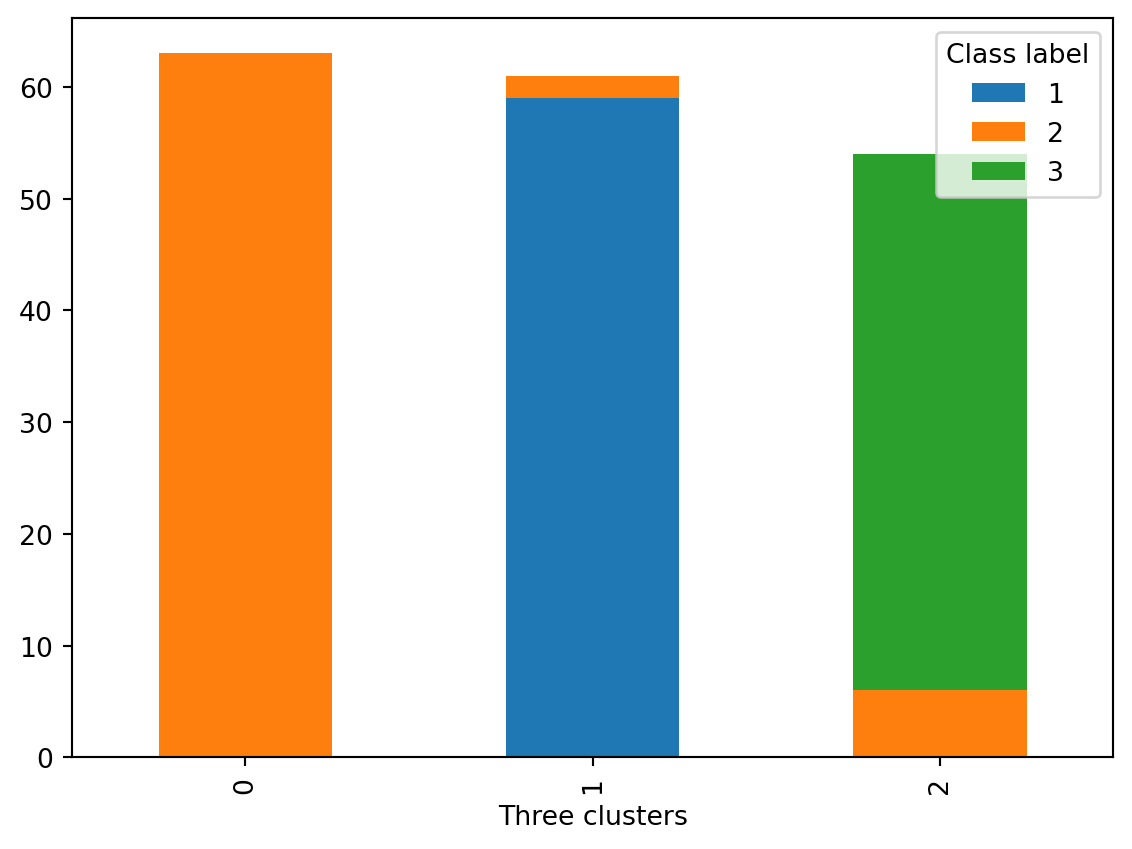
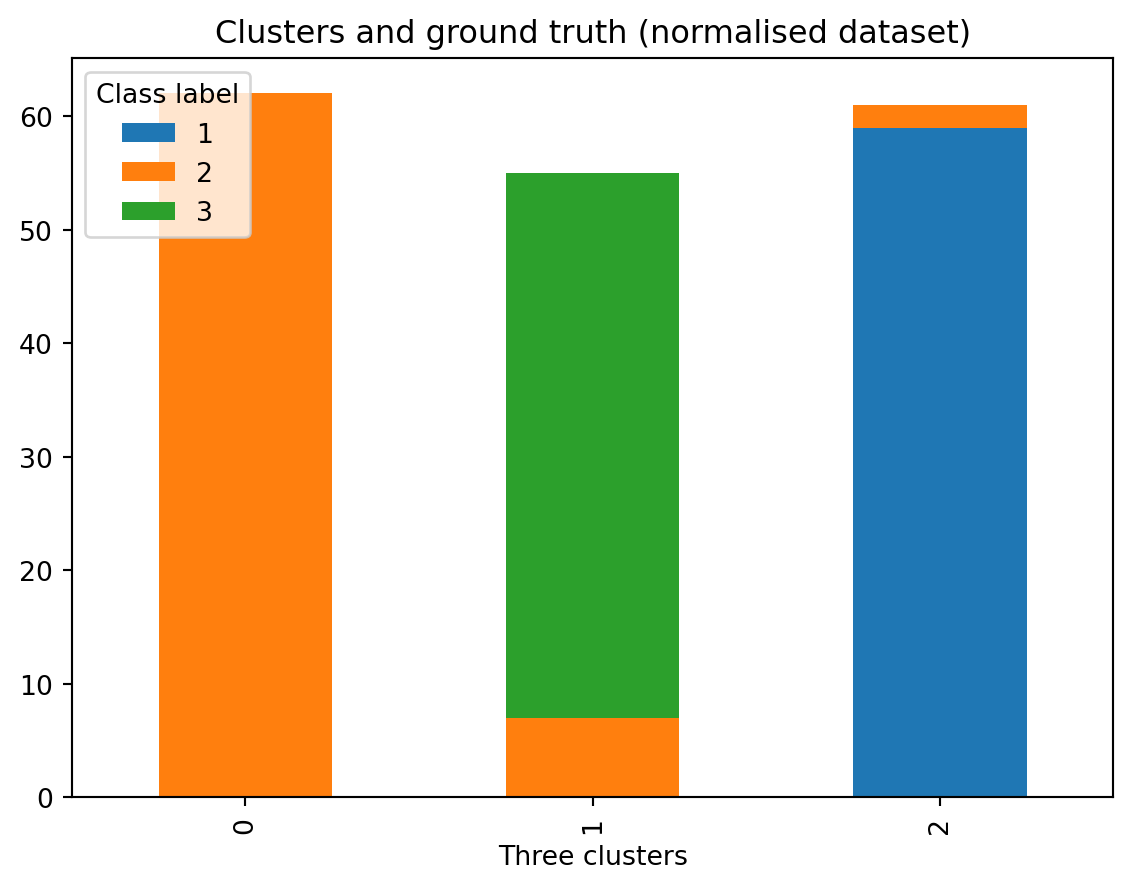
Built site for gh-pages

diff --git a/content/labs/Lab_5/IM939_Lab_5_2.html b/content/labs/Lab_5/IM939_Lab_5_2.html
@@ -1338,7 +1338,7 @@ Name: count, dtype: int64</code></pre>
 <td>1.04</td>
 <td>3.92</td>
 <td>1065</td>
-<td>1</td>
+<td>0</td>
 </tr>
 <tr class="even">
 <td data-quarto-table-cell-role="th">1</td>
@@ -1356,7 +1356,7 @@ Name: count, dtype: int64</code></pre>
 <td>1.05</td>
 <td>3.40</td>
 <td>1050</td>
-<td>1</td>
+<td>0</td>
 </tr>
 <tr class="odd">
 <td data-quarto-table-cell-role="th">2</td>
@@ -1374,7 +1374,7 @@ Name: count, dtype: int64</code></pre>
 <td>1.03</td>
 <td>3.17</td>
 <td>1185</td>
-<td>1</td>
+<td>0</td>
 </tr>
 <tr class="even">
 <td data-quarto-table-cell-role="th">3</td>
@@ -1392,7 +1392,7 @@ Name: count, dtype: int64</code></pre>
 <td>0.86</td>
 <td>3.45</td>
 <td>1480</td>
-<td>1</td>
+<td>0</td>
 </tr>
 <tr class="odd">
 <td data-quarto-table-cell-role="th">4</td>
@@ -1410,7 +1410,7 @@ Name: count, dtype: int64</code></pre>
 <td>1.04</td>
 <td>2.93</td>
 <td>735</td>
-<td>2</td>
+<td>1</td>
 </tr>
 <tr class="even">
 <td data-quarto-table-cell-role="th">...</td>
@@ -1446,7 +1446,7 @@ Name: count, dtype: int64</code></pre>
 <td>0.64</td>
 <td>1.74</td>
 <td>740</td>
-<td>2</td>
+<td>1</td>
 </tr>
 <tr class="even">
 <td data-quarto-table-cell-role="th">174</td>
@@ -1464,7 +1464,7 @@ Name: count, dtype: int64</code></pre>
 <td>0.70</td>
 <td>1.56</td>
 <td>750</td>
-<td>2</td>
+<td>1</td>
 </tr>
 <tr class="odd">
 <td data-quarto-table-cell-role="th">175</td>
@@ -1482,7 +1482,7 @@ Name: count, dtype: int64</code></pre>
 <td>0.59</td>
 <td>1.56</td>
 <td>835</td>
-<td>2</td>
+<td>1</td>
 </tr>
 <tr class="even">
 <td data-quarto-table-cell-role="th">176</td>
@@ -1500,7 +1500,7 @@ Name: count, dtype: int64</code></pre>
 <td>0.60</td>
 <td>1.62</td>
 <td>840</td>
-<td>2</td>
+<td>1</td>
 </tr>
 <tr class="odd">
 <td data-quarto-table-cell-role="th">177</td>
@@ -1518,7 +1518,7 @@ Name: count, dtype: int64</code></pre>
 <td>0.61</td>
 <td>1.60</td>
 <td>560</td>
-<td>0</td>
+<td>2</td>
 </tr>
 </tbody>
 </table>
@@ -1578,7 +1578,7 @@ Name: count, dtype: int64</code></pre>
 <td>0.455285</td>
 <td>0.970696</td>
 <td>0.561341</td>
-<td>1</td>
+<td>2</td>
 </tr>
 <tr class="even">
 <td data-quarto-table-cell-role="th">1</td>
@@ -1596,7 +1596,7 @@ Name: count, dtype: int64</code></pre>
 <td>0.463415</td>
 <td>0.780220</td>
 <td>0.550642</td>
-<td>1</td>
+<td>2</td>
 </tr>
 <tr class="odd">
 <td data-quarto-table-cell-role="th">2</td>
@@ -1614,7 +1614,7 @@ Name: count, dtype: int64</code></pre>
 <td>0.447154</td>
 <td>0.695971</td>
 <td>0.646933</td>
-<td>1</td>
+<td>2</td>
 </tr>
 <tr class="even">
 <td data-quarto-table-cell-role="th">3</td>
@@ -1632,7 +1632,7 @@ Name: count, dtype: int64</code></pre>
 <td>0.308943</td>
 <td>0.798535</td>
 <td>0.857347</td>
-<td>1</td>
+<td>2</td>
 </tr>
 <tr class="odd">
 <td data-quarto-table-cell-role="th">4</td>
@@ -1650,7 +1650,7 @@ Name: count, dtype: int64</code></pre>
 <td>0.455285</td>
 <td>0.608059</td>
 <td>0.325963</td>
-<td>1</td>
+<td>2</td>
 </tr>
 <tr class="even">
 <td data-quarto-table-cell-role="th">...</td>
@@ -1686,7 +1686,7 @@ Name: count, dtype: int64</code></pre>
 <td>0.130081</td>
 <td>0.172161</td>
 <td>0.329529</td>
-<td>2</td>
+<td>1</td>
 </tr>
 <tr class="even">
 <td data-quarto-table-cell-role="th">174</td>
@@ -1704,7 +1704,7 @@ Name: count, dtype: int64</code></pre>
 <td>0.178862</td>
 <td>0.106227</td>
 <td>0.336662</td>
-<td>2</td>
+<td>1</td>
 </tr>
 <tr class="odd">
 <td data-quarto-table-cell-role="th">175</td>
@@ -1722,7 +1722,7 @@ Name: count, dtype: int64</code></pre>
 <td>0.089431</td>
 <td>0.106227</td>
 <td>0.397290</td>
-<td>2</td>
+<td>1</td>
 </tr>
 <tr class="even">
 <td data-quarto-table-cell-role="th">176</td>
@@ -1740,7 +1740,7 @@ Name: count, dtype: int64</code></pre>
 <td>0.097561</td>
 <td>0.128205</td>
 <td>0.400856</td>
-<td>2</td>
+<td>1</td>
 </tr>
 <tr class="odd">
 <td data-quarto-table-cell-role="th">177</td>
@@ -1758,7 +1758,7 @@ Name: count, dtype: int64</code></pre>
 <td>0.105691</td>
 <td>0.120879</td>
 <td>0.201141</td>
-<td>2</td>
+<td>1</td>
 </tr>
 </tbody>
 </table>
@@ -1797,21 +1797,21 @@ Name: count, dtype: int64</code></pre>
 <tbody>
 <tr class="odd">
 <td data-quarto-table-cell-role="th">0</td>
-<td>0</td>
-<td>50</td>
-<td>19</td>
-</tr>
-<tr class="even">
-<td data-quarto-table-cell-role="th">1</td>
 <td>46</td>
 <td>1</td>
 <td>0</td>
 </tr>
-<tr class="odd">
-<td data-quarto-table-cell-role="th">2</td>
+<tr class="even">
+<td data-quarto-table-cell-role="th">1</td>
 <td>13</td>
 <td>20</td>
 <td>29</td>
+</tr>
+<tr class="odd">
+<td data-quarto-table-cell-role="th">2</td>
+<td>0</td>
+<td>50</td>
+<td>19</td>
 </tr>
 </tbody>
 </table>
@@ -1819,6 +1819,7 @@ Name: count, dtype: int64</code></pre>
 </div>
 </div>
 </div>
+<p>And now, we will repeat the same with the normalised dataframe:</p>
 <div class="cell" data-execution_count="16">
 <div class="sourceCode cell-code" id="cb18"><pre class="sourceCode python code-with-copy"><code class="sourceCode python"><span id="cb18-1"><a href="#cb18-1" aria-hidden="true" tabindex="-1"></a>ct_norm <span class="op">=</span> pd.crosstab(df_norm[<span class="st">'Three clusters'</span>], df_norm[<span class="st">'Class label'</span>])</span>
 <span id="cb18-2"><a href="#cb18-2" aria-hidden="true" tabindex="-1"></a>ct_norm</span></code><button title="Copy to Clipboard" class="code-copy-button"><i class="bi"></i></button></pre></div>
@@ -1845,20 +1846,20 @@ Name: count, dtype: int64</code></pre>
 <tr class="odd">
 <td data-quarto-table-cell-role="th">0</td>
 <td>0</td>
-<td>63</td>
+<td>62</td>
 <td>0</td>
 </tr>
 <tr class="even">
 <td data-quarto-table-cell-role="th">1</td>
-<td>59</td>
-<td>2</td>
 <td>0</td>
+<td>7</td>
+<td>48</td>
 </tr>
 <tr class="odd">
 <td data-quarto-table-cell-role="th">2</td>
+<td>59</td>
+<td>2</td>
 <td>0</td>
-<td>6</td>
-<td>48</td>
 </tr>
 </tbody>
 </table>
@@ -1872,22 +1873,26 @@ Name: count, dtype: int64</code></pre>
 <span id="cb19-2"><a href="#cb19-2" aria-hidden="true" tabindex="-1"></a><span class="im">import</span> numpy <span class="im">as</span> np</span>
 <span id="cb19-3"><a href="#cb19-3" aria-hidden="true" tabindex="-1"></a></span>
 <span id="cb19-4"><a href="#cb19-4" aria-hidden="true" tabindex="-1"></a>ct.plot.bar(stacked<span class="op">=</span><span class="va">True</span>)</span>
-<span id="cb19-5"><a href="#cb19-5" aria-hidden="true" tabindex="-1"></a>plt.legend(title<span class="op">=</span><span class="st">'Class label'</span>)</span></code><button title="Copy to Clipboard" class="code-copy-button"><i class="bi"></i></button></pre></div>
+<span id="cb19-5"><a href="#cb19-5" aria-hidden="true" tabindex="-1"></a>plt.legend(title<span class="op">=</span><span class="st">'Class label'</span>)</span>
+<span id="cb19-6"><a href="#cb19-6" aria-hidden="true" tabindex="-1"></a>plt.title(label <span class="op">=</span> <span class="st">'Clusters and ground truth (original dataset)'</span>)</span></code><button title="Copy to Clipboard" class="code-copy-button"><i class="bi"></i></button></pre></div>
 <div class="cell-output cell-output-display" data-execution_count="17">
-<pre><code>&lt;matplotlib.legend.Legend at 0x176897090&gt;</code></pre>
+<pre><code>Text(0.5, 1.0, 'Clusters and ground truth (original dataset)')</code></pre>
 </div>
 <div class="cell-output cell-output-display">
-<p><img src="IM939_Lab_5_2_files/figure-html/cell-18-output-2.png" width="566" height="425"></p>
+<p><img src="IM939_Lab_5_2_files/figure-html/cell-18-output-2.png" width="566" height="445"></p>
 </div>
 </div>
+<p>And now, we repeat the same, but using the normalised dataset:</p>
 <div class="cell" data-execution_count="18">
-<div class="sourceCode cell-code" id="cb21"><pre class="sourceCode python code-with-copy"><code class="sourceCode python"><span id="cb21-1"><a href="#cb21-1" aria-hidden="true" tabindex="-1"></a>ct_norm.plot.bar(stacked<span class="op">=</span><span class="va">True</span>)</span>
-<span id="cb21-2"><a href="#cb21-2" aria-hidden="true" tabindex="-1"></a>plt.legend(title<span class="op">=</span><span class="st">'Class label'</span>)</span></code><button title="Copy to Clipboard" class="code-copy-button"><i class="bi"></i></button></pre></div>
+<div class="sourceCode cell-code" id="cb21"><pre class="sourceCode python code-with-copy"><code class="sourceCode python"><span id="cb21-1"><a href="#cb21-1" aria-hidden="true" tabindex="-1"></a><span class="co"># use the normalised dataset</span></span>
+<span id="cb21-2"><a href="#cb21-2" aria-hidden="true" tabindex="-1"></a>ct_norm.plot.bar(stacked<span class="op">=</span><span class="va">True</span>)</span>
+<span id="cb21-3"><a href="#cb21-3" aria-hidden="true" tabindex="-1"></a>plt.legend(title<span class="op">=</span><span class="st">'Class label'</span>)</span>
+<span id="cb21-4"><a href="#cb21-4" aria-hidden="true" tabindex="-1"></a>plt.title(label <span class="op">=</span> <span class="st">'Clusters and ground truth (normalised dataset)'</span>)</span></code><button title="Copy to Clipboard" class="code-copy-button"><i class="bi"></i></button></pre></div>
 <div class="cell-output cell-output-display" data-execution_count="18">
-<pre><code>&lt;matplotlib.legend.Legend at 0x1768c6510&gt;</code></pre>
+<pre><code>Text(0.5, 1.0, 'Clusters and ground truth (normalised dataset)')</code></pre>
 </div>
 <div class="cell-output cell-output-display">
-<p><img src="IM939_Lab_5_2_files/figure-html/cell-19-output-2.png" width="566" height="425"></p>
+<p><img src="IM939_Lab_5_2_files/figure-html/cell-19-output-2.png" width="566" height="445"></p>
 </div>
 </div>
 <div class="callout callout-style-default callout-caution callout-titled">
@@ -1900,7 +1905,10 @@ How has the kmeans model done compared to our ground truth?
 </div>
 </div>
 <div class="callout-body-container callout-body">
-<p>Check the difference between the clusters using the original dataframe and the normalised dataframe.</p>
+<ol type="1">
+<li>Check the difference between the clusters using the original dataframe and the normalised dataframe.</li>
+<li>Reflect on the meaning of the labels: Are the labels from ground truth and cluster labels related somehow? Are the labels meaningful?</li>
+</ol>
 </div>
 </div>
 <div class="callout callout-style-default callout-important callout-titled">
@@ -2129,6 +2137,7 @@ Important
 </div>
 </div>
 </div>
+<p>And now, with the normalised dataset:</p>
 <div class="cell" data-execution_count="20">
 <div class="sourceCode cell-code" id="cb24"><pre class="sourceCode python code-with-copy"><code class="sourceCode python"><span id="cb24-1"><a href="#cb24-1" aria-hidden="true" tabindex="-1"></a><span class="co"># We will be excluding the column `Class label` located in the first position from the PCA.</span></span>
 <span id="cb24-2"><a href="#cb24-2" aria-hidden="true" tabindex="-1"></a>df_norm.iloc[:,<span class="dv">1</span>:<span class="dv">14</span>]</span></code><button title="Copy to Clipboard" class="code-copy-button"><i class="bi"></i></button></pre></div>
@@ -2348,6 +2357,7 @@ Important
 <span id="cb25-6"><a href="#cb25-6" aria-hidden="true" tabindex="-1"></a>df_pca <span class="op">=</span> pca.fit(df.iloc[:,<span class="dv">1</span>:<span class="dv">14</span>])</span>
 <span id="cb25-7"><a href="#cb25-7" aria-hidden="true" tabindex="-1"></a>df_pca_vals <span class="op">=</span> df_pca.transform(df.iloc[:,<span class="dv">1</span>:<span class="dv">14</span>])</span></code><button title="Copy to Clipboard" class="code-copy-button"><i class="bi"></i></button></pre></div>
 </div>
+<p>Again, we are repeating the same, but using the normalised dataframe:</p>
 <div class="cell" data-execution_count="22">
 <div class="sourceCode cell-code" id="cb26"><pre class="sourceCode python code-with-copy"><code class="sourceCode python"><span id="cb26-1"><a href="#cb26-1" aria-hidden="true" tabindex="-1"></a><span class="co"># We are repeating the same, with the normalised dataframe.</span></span>
 <span id="cb26-2"><a href="#cb26-2" aria-hidden="true" tabindex="-1"></a></span>
@@ -2374,6 +2384,7 @@ Important
 <p><img src="IM939_Lab_5_2_files/figure-html/cell-24-output-2.png" width="612" height="449"></p>
 </div>
 </div>
+<p>And the same, with the normalised dataframe:</p>
 <div class="cell" data-execution_count="24">
 <div class="sourceCode cell-code" id="cb29"><pre class="sourceCode python code-with-copy"><code class="sourceCode python"><span id="cb29-1"><a href="#cb29-1" aria-hidden="true" tabindex="-1"></a><span class="co"># We are repeating the same, with the normalised dataframe.</span></span>
 <span id="cb29-2"><a href="#cb29-2" aria-hidden="true" tabindex="-1"></a></span>
